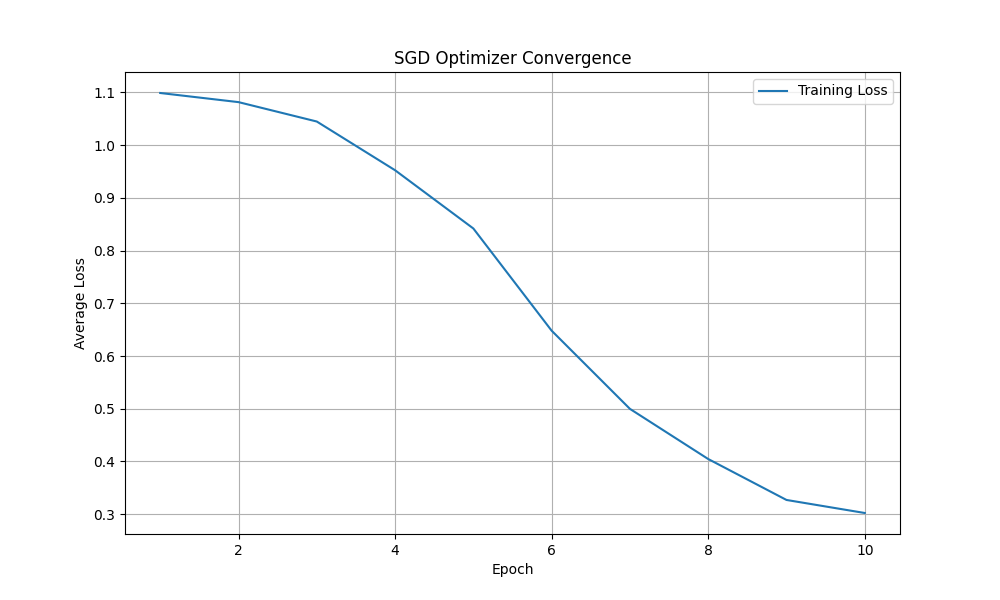
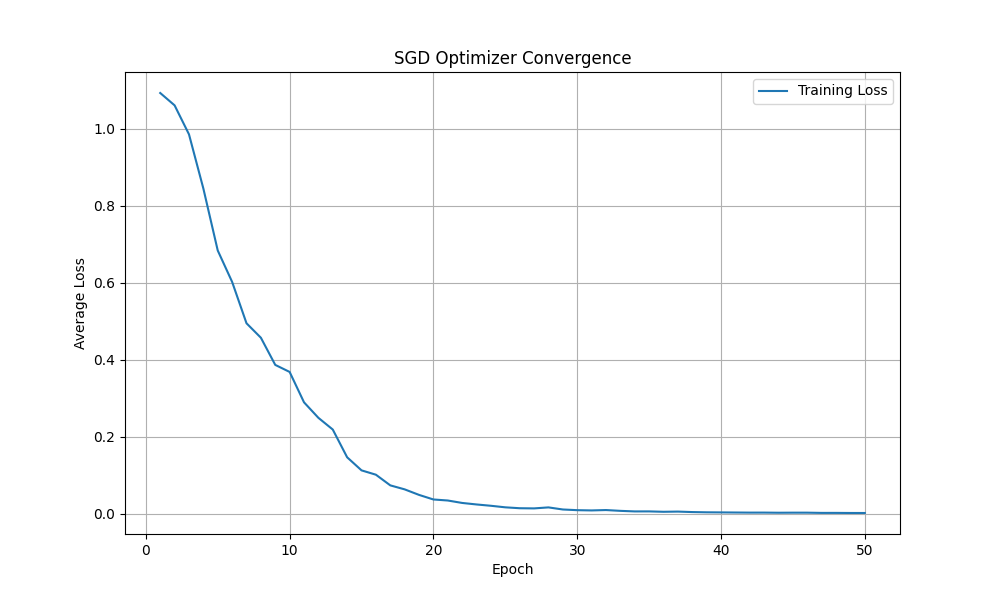
okay ive cooked i think

diff --git a/backend/analysis/train.py b/backend/analysis/train.py
@@ -22,7 +22,7 @@ class model():
         all_predictions = []
         all_labels = []
         losses = []  # List to store average loss per epoch
-
+        results = []
         for epoch in range(self.iterations):
             epoch_loss = 0.0  # Accumulate loss for the epoch
             num_batches = 0
@@ -35,6 +35,8 @@ class model():
                 predictions = self.m(data)
                 all_predictions.append(predictions.cpu())  # Store predictions
                 all_labels.append(labels.cpu())  # Store labels
+     
+                results.append(self.accuracy(predictions, labels))
                 # Compute loss
                 loss = criterion(predictions, labels)
                 epoch_loss += loss.item()  # Accumulate loss
@@ -42,21 +44,12 @@ class model():
                 # Backward pass and optimization
                 loss.backward()
                 optimizer.step()
-            
+             
             # Compute average loss for the epoch
             avg_loss = epoch_loss / num_batches
             losses.append(avg_loss)
-            print(f"Epoch {epoch+1}/{self.iterations}, Average Loss: {avg_loss:.4f}")
+            print(f"Epoch {epoch+1}/{self.iterations}, Average Loss: {avg_loss:.4f}, Traning Acc: {sum(results) / len(results)} Val Acc: {self.accuracy(*self.predict())}")
 
-        # Plot the loss convergence
-        plt.figure(figsize=(10, 6))
-        plt.plot(range(1, self.iterations + 1), losses, label='Training Loss')
-        plt.xlabel('Epoch')
-        plt.ylabel('Average Loss')
-        plt.title('SGD Optimizer Convergence')
-        plt.grid(True)
-        plt.legend()
-        plt.savefig('uhoh.png')
 
         return losses, all_predictions, all_labels
 
@@ -116,3 +109,8 @@ class model():
         r2_values = r2_score(predictions, labels, multioutput='raw_values')
         return {i: r2_values[i].item() for i in range(num_classes)} 
     
+    def accuracy(self, predictions: torch.Tensor, labels: torch.Tensor):
+        predicted_classes = torch.argmax(predictions, dim=1)
+        correct = (predicted_classes == labels).sum().item()
+        accuracy = correct / len(labels)
+        return accuracy

diff --git a/backend/app.py b/backend/app.py
@@ -3,8 +3,6 @@ import data_io.dataloader
 import analysis
 from torch.utils.data import DataLoader
 from torch import save
-import json
-import time
 import matplotlib.pyplot as plt
 from tests import param_options
 import torch
@@ -36,21 +34,22 @@ def main(**args):
     folds = data_io.dataloader.participant_kfold_split(dataset, args["k_folds"])
     results = []
     for fold in folds:
-        train_dataset, test_dataset, tr_parps, te_parps = fold
 
-        print(tr_parps)
+        train_dataset, test_dataset, tr_parps, te_parps = fold
+        print(f'TRANING PARSP{tr_parps}')
+        print(f'TESTING PARPS{te_parps}')
         train_data = DataLoader(train_dataset, batch_size=args["b_size"], shuffle=True, num_workers=4, collate_fn=data_io.dataloader.collate_fn)    
         test_data = DataLoader(test_dataset, batch_size=args["b_size"], shuffle=True, num_workers=4, collate_fn=data_io.dataloader.collate_fn)
+        print(len(train_data))
+        print(len(test_data))
         m = analysis.models.EEGCNN(filter_size=args["filter_size"], num_classes=len(args['hormones']), in_channels=args["in_channels"])
-        a = analysis.train.model(m, train_data, train_data, iterations=args[ "iterations" ])
+        a = analysis.train.model(m, train_data, test_data, iterations=args[ "iterations" ])
 
         a.train()
 
         predictions, truth = a.predict()
-        predicted_classes = torch.argmax(predictions, dim=1)
-        correct = (predicted_classes == truth).sum().item()
-        accuracy = correct / len(truth) 
-        results.append(accuracy)
+
+        results.append(a.accuracy(predictions, truth))
     
     write_results(args, results)
 
@@ -62,7 +61,7 @@ if __name__ == '__main__':
     params = {
         "b_size" : 4,
         "filter_size" : 5,
-        "iterations" : 10,
+        "iterations" : 50,
         "k_folds" : 3,
         "in_channels" : 1
     }

diff --git a/backend/testing/dataplot.py b/backend/testing/dataplot.py
@@ -31,7 +31,7 @@ for participant, count in sorted(participant_counts.items()):
     print(f"{participant}: {count}")
 
 # Find the minimum number of epochs
-min_epochs = 15
+min_epochs = 5 
 print(f"Minimum number of epochs: {min_epochs}")
 
 # Create N2_small: select min_epochs files per participant
@@ -50,7 +50,7 @@ for participant, count in sorted(N2_small_counts.items()):
     print(f"{participant}: {count}")
 
 # Save N2_small files to a new directory
-N2_small_dir = Path('/mnt/eeg/N3_small')
+N2_small_dir = Path('/mnt/eeg/L9_small')
 N2_small_dir.mkdir(exist_ok=True)
 for f in N2_small_files:
     shutil.copy(f, N2_small_dir / f.name)

diff --git a/backend/tests.py b/backend/tests.py
@@ -1,9 +1,11 @@
 param_options = {
-    "feature_freq" : [[{'coh' : 'alpha'}]],
+    "feature_freq" : [[{'coh' : 'alpha'}], [{'coh' : 'delta'}, {'coh' : 'gamma'}],
+                      [{'se' : 'alpha'}, {'se' : 'beta'}],[{'se' : 'alpha'}, {'se' : 'beta'}],
+                       [{'psd' : 'alpha'}, {'psd' : 'beta'}], [{'psd' : 'alpha'}, {'psd' : 'beta'}], ],
                        
     "hormones" : [
                    ['BDC1.7'],['BDC1.8'],
                 ['BDC1.9'],['BDC1.10'], ['BDC1.11']],
 
-    "sleep_stages" : [['N3_small'], ['N2_small']],
+    "sleep_stages" : [['L9_small'], ['N2_small']],
 }
